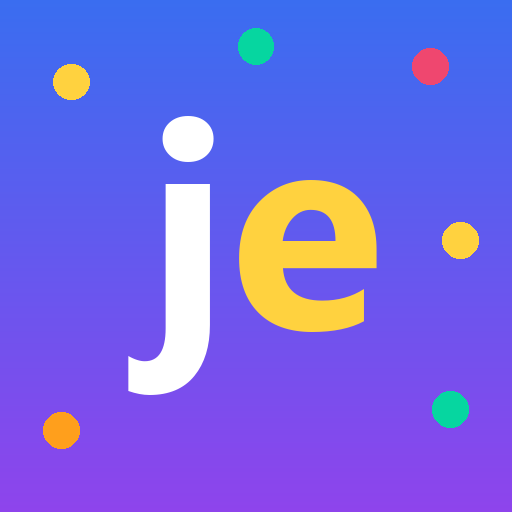
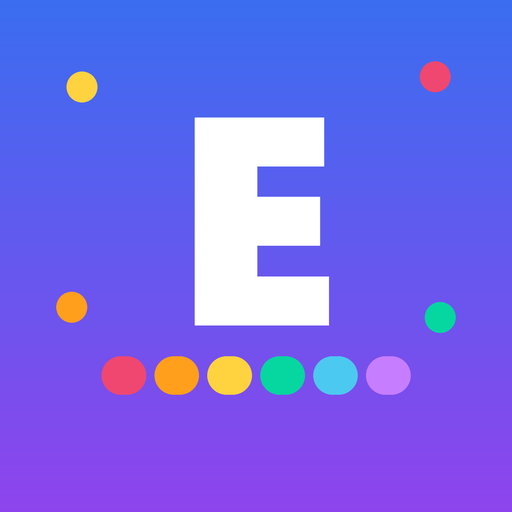
Nouvelle icône : un grand « E » souligné des couleurs des personnes

diff --git a/build.py b/build.py
@@ -73,31 +73,42 @@ coupure = SOURCE.index('<div class="wrap">')
 index = TETE + SOURCE[:coupure] + "</head>\n<body>\n" + SOURCE[coupure:] + PIED
 (ICI / "index.html").write_text(index, encoding="utf-8")
 
-# Icônes : dégradé bleu → violet, confettis, « je » en blanc avec le « e » en jaune
+# Icônes : dégradé bleu → violet, grand « E » d'Educatio en blanc,
+# souligné des 6 couleurs des personnes (je, tu, il, nous, vous, ils) comme dans l'appli
 (ICI / "icons").mkdir(exist_ok=True)
-POLICE = "C:/Windows/Fonts/segoeuib.ttf"
-CONFETTIS = [(0.14, 0.16, "#ffd23f"), (0.84, 0.13, "#ef476f"), (0.88, 0.80, "#06d6a0"), (0.12, 0.84, "#ff9f1c"), (0.50, 0.09, "#06d6a0"), (0.90, 0.47, "#ffd23f")]
+POLICE = "C:/Windows/Fonts/seguibl.ttf"
+COULEURS_PERSONNES = ["#ef476f", "#ff9f1c", "#ffd23f", "#06d6a0", "#4cc9f0", "#c77dff"]
+CONFETTIS = [(0.16, 0.17, "#ffd23f"), (0.85, 0.15, "#ef476f"), (0.86, 0.62, "#06d6a0"), (0.14, 0.60, "#ff9f1c")]
 
 
 def icone(taille, marge_sure=False):
+    T = taille * 4  # dessin en grand puis réduit : bords lisses
     haut, bas = (58, 109, 240), (142, 68, 236)
-    img = Image.new("RGB", (taille, taille))
+    img = Image.new("RGB", (T, T))
     d = ImageDraw.Draw(img)
-    for y in range(taille):
-        t = y / (taille - 1)
-        d.line([(0, y), (taille, y)], fill=tuple(round(a + (b - a) * t) for a, b in zip(haut, bas)))
+    for y in range(T):
+        t = y / (T - 1)
+        d.line([(0, y), (T, y)], fill=tuple(round(a + (b - a) * t) for a, b in zip(haut, bas)))
+    k = 0.8 if marge_sure else 1.0  # icône « maskable » : tout tient dans la zone centrale
     if not marge_sure:
         for x, y, c in CONFETTIS:
-            r = taille * 0.035
-            d.ellipse([x * taille - r, y * taille - r, x * taille + r, y * taille + r], fill=c)
-    echelle = 0.44 if marge_sure else 0.56
-    police = ImageFont.truetype(POLICE, round(taille * echelle))
-    boite = d.textbbox((0, 0), "je", font=police)
+            r = T * 0.03
+            d.ellipse([x * T - r, y * T - r, x * T + r, y * T + r], fill=c)
+    police = ImageFont.truetype(POLICE, round(T * 0.58 * k))
+    boite = d.textbbox((0, 0), "E", font=police)
     l, h = boite[2] - boite[0], boite[3] - boite[1]
-    x0, y0 = (taille - l) / 2 - boite[0], (taille - h) / 2 - boite[1]
-    d.text((x0, y0), "j", font=police, fill="#ffffff")
-    d.text((x0 + d.textlength("j", font=police), y0), "e", font=police, fill="#ffd23f")
-    return img
+    barre_h, ecart = T * 0.075 * k, T * 0.06 * k
+    total = h + ecart + barre_h
+    x0, y0 = (T - l) / 2 - boite[0], (T - total) / 2 - boite[1]
+    d.text((x0, y0), "E", font=police, fill="#ffffff")
+    # six petites barres de couleur sous la lettre
+    yb = (T - total) / 2 + h + ecart
+    largeur = T * 0.62 * k
+    pas = largeur / 6
+    xb = (T - largeur) / 2
+    for i, c in enumerate(COULEURS_PERSONNES):
+        d.rounded_rectangle([xb + i * pas + pas * 0.08, yb, xb + (i + 1) * pas - pas * 0.08, yb + barre_h], radius=barre_h / 2, fill=c)
+    return img.resize((taille, taille), Image.LANCZOS)
 
 
 icone(180).save(ICI / "icons/apple-touch-icon.png")
